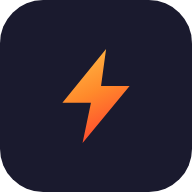
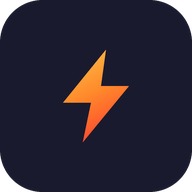
feat(brand): icones PWA acheteur + vendeur nettes jusqu'a 1024 px
L'ecran de demarrage Android 12+ affiche l'icone a ~240 dp (700-850 px) :
les icones 512 px etaient agrandies (flou). Regenerees depuis le trace
vectoriel de l'eclair (scripts/generate_pwa_icons.py), design inchange ;
eclair un peu plus present dans l'icone maskable (44 %). Tailles 1024
ajoutees aux deux manifests.

diff --git a/scripts/generate_pwa_icons.py b/scripts/generate_pwa_icons.py
@@ -1,0 +1,127 @@
+"""Genere les icones PWA acheteur et vendeur, nettes jusqu'a 1024 px.
+
+    python scripts/generate_pwa_icons.py
+
+Pourquoi 1024 px : sur Android 12+, l'ecran de demarrage affiche l'icone maskable
+a ~240 dp, soit 700-850 px sur un telephone recent. Avec seulement 512 px, Android
+l'agrandissait -> rendu flou. Eclair = trace vectoriel de static/img/brand/bolt.svg,
+rendu en sur-echantillonnage x4 (bords lisses).
+
+Design (valide le 24/09, "option A nette") : identique a l'existant.
+- Acheteur : degrade diagonal #FF792E -> #FF4D2E, eclair blanc.
+- Vendeur  : fond bleu nuit #1A1A2E, eclair en degrade du logo (#FFC24A -> #FF8A2B -> #FF4D2E).
+Eclair un peu plus present dans l'icone maskable (44 % de la hauteur au lieu de ~39 %).
+"""
+
+from __future__ import annotations
+
+from pathlib import Path
+
+from PIL import Image, ImageDraw
+
+ROOT = Path(__file__).resolve().parent.parent
+IMG = ROOT / "static" / "img"
+BOLT = [(38, 4), (12, 36), (29, 36), (24, 60), (52, 26), (35, 26)]  # viewBox 64x64, hauteur 56
+SS = 4  # sur-echantillonnage
+
+BUYER_BG = ((255, 121, 46), (255, 77, 46))  # degrade diagonal du fond
+SELLER_BG = (26, 26, 46)  # #1A1A2E
+# Degrade de l'eclair du logo (bolt.svg : objectBoundingBox (0,0) -> (0.35,1))
+LOGO_STOPS = [(0.0, (255, 194, 74)), (0.55, (255, 138, 43)), (1.0, (255, 77, 46))]
+
+MASKABLE_BOLT = 0.44
+ANY_BOLT = 0.48
+APPLE_BOLT = 0.47
+ANY_RADIUS = 0.22
+
+
+def _lerp(a, b, t):
+    return tuple(round(a[i] + (b[i] - a[i]) * t) for i in range(3))
+
+
+def _stops(t: float):
+    for (t0, c0), (t1, c1) in zip(LOGO_STOPS, LOGO_STOPS[1:]):
+        if t <= t1:
+            return _lerp(c0, c1, (t - t0) / (t1 - t0))
+    return LOGO_STOPS[-1][1]
+
+
+def _small_then_big(big: int, color_at) -> Image.Image:
+    # Degrade calcule sur une petite image puis agrandi (rapide, sans artefact visible).
+    n = 256
+    small = Image.new("RGB", (n, n))
+    px = small.load()
+    for y in range(n):
+        for x in range(n):
+            px[x, y] = color_at(x / (n - 1), y / (n - 1))
+    return small.resize((big, big), Image.BICUBIC)
+
+
+def _background(big: int, app: str) -> Image.Image:
+    if app == "buyer":
+        return _small_then_big(big, lambda u, v: _lerp(*BUYER_BG, (u + v) / 2))
+    return Image.new("RGB", (big, big), SELLER_BG)
+
+
+def _bolt_points(big: int, ratio: float):
+    k = ratio * big / 56
+    return [(big / 2 + (x - 32) * k, big / 2 + (y - 32) * k) for x, y in BOLT]
+
+
+def _draw_bolt(img: Image.Image, big: int, ratio: float, app: str) -> None:
+    pts = _bolt_points(big, ratio)
+    if app == "buyer":
+        ImageDraw.Draw(img).polygon(pts, fill=(255, 255, 255))
+        return
+    xs, ys = [p[0] for p in pts], [p[1] for p in pts]
+    x0, y0, w, h = min(xs), min(ys), max(xs) - min(xs), max(ys) - min(ys)
+    # Projection sur le vecteur (0.35, 1) en coordonnees de la boite de l'eclair.
+    grad = _small_then_big(
+        big, lambda u, v: _stops(max(0.0, min(1.0, (u * 0.35 + v) / (0.35 ** 2 + 1))))
+    ).resize((max(1, round(w)), max(1, round(h))), Image.BICUBIC)
+    mask = Image.new("L", img.size, 0)
+    ImageDraw.Draw(mask).polygon(pts, fill=255)
+    layer = Image.new("RGB", img.size)
+    layer.paste(grad, (round(x0), round(y0)))
+    img.paste(layer, (0, 0), mask)
+
+
+def maskable(size: int, app: str, ratio: float = MASKABLE_BOLT) -> Image.Image:
+    """Carre plein (Android le decoupe : rond, squircle...)."""
+    big = size * SS
+    img = _background(big, app)
+    _draw_bolt(img, big, ratio, app)
+    return img.resize((size, size), Image.LANCZOS)
+
+
+def any_icon(size: int, app: str) -> Image.Image:
+    """Carre a coins arrondis sur fond transparent (ordinateur, navigateurs)."""
+    big = size * SS
+    img = _background(big, app)
+    _draw_bolt(img, big, ANY_BOLT, app)
+    mask = Image.new("L", (big, big), 0)
+    ImageDraw.Draw(mask).rounded_rectangle((0, 0, big - 1, big - 1), radius=round(ANY_RADIUS * big), fill=255)
+    out = Image.new("RGBA", (big, big), (0, 0, 0, 0))
+    out.paste(img, (0, 0), mask)
+    return out.resize((size, size), Image.LANCZOS)
+
+
+# Noms de fichiers historiques (references par les manifests / templates).
+FILES = {
+    "buyer": {"any": "icon-buyer-{s}.png", "maskable": "icon-buyer-maskable-{s}.png", "apple": "apple-touch-icon-buyer.png"},
+    "seller": {"any": "icon-{s}.png", "maskable": "icon-seller-maskable-{s}.png", "apple": "apple-touch-icon.png"},
+}
+
+
+def main() -> None:
+    for app, names in FILES.items():
+        for size in (192, 512, 1024):
+            maskable(size, app).save(IMG / names["maskable"].format(s=size), optimize=True)
+            any_icon(size, app).save(IMG / names["any"].format(s=size), optimize=True)
+        # iOS : icone pleine (iOS arrondit lui-meme les coins)
+        maskable(180, app, ratio=APPLE_BOLT).save(IMG / names["apple"], optimize=True)
+    print("Icones acheteur + vendeur generees dans", IMG)
+
+
+if __name__ == "__main__":
+    main()
